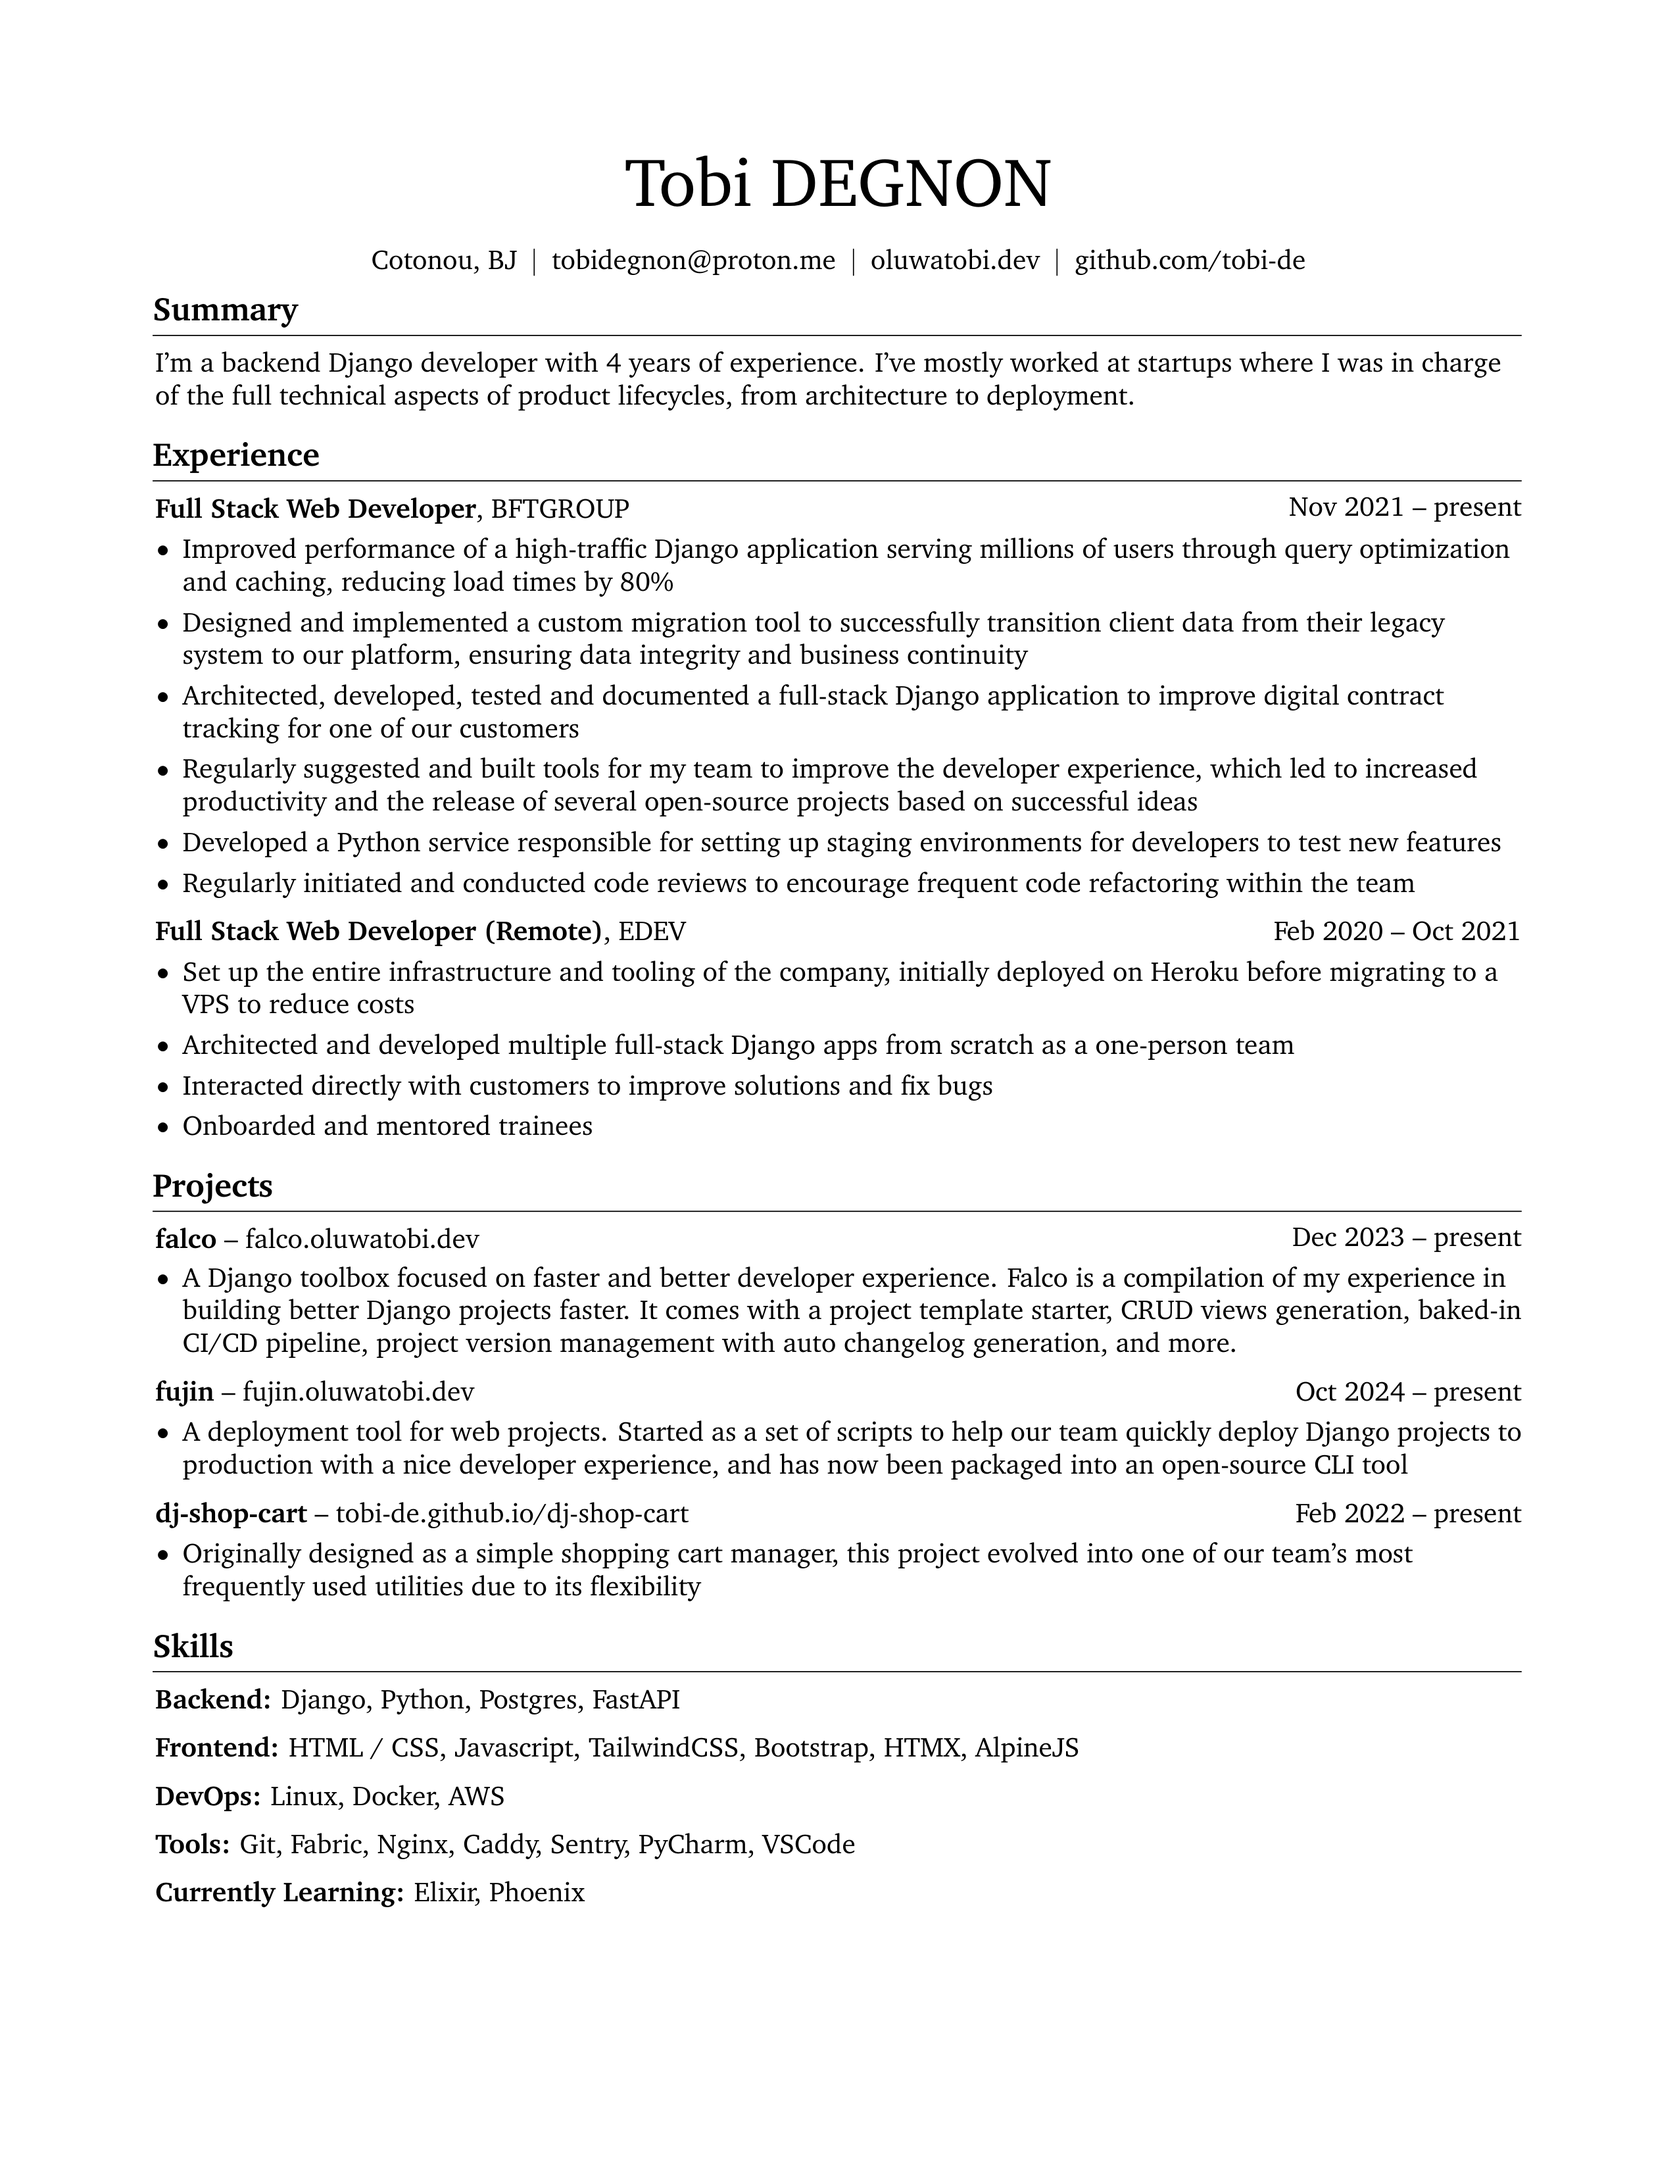
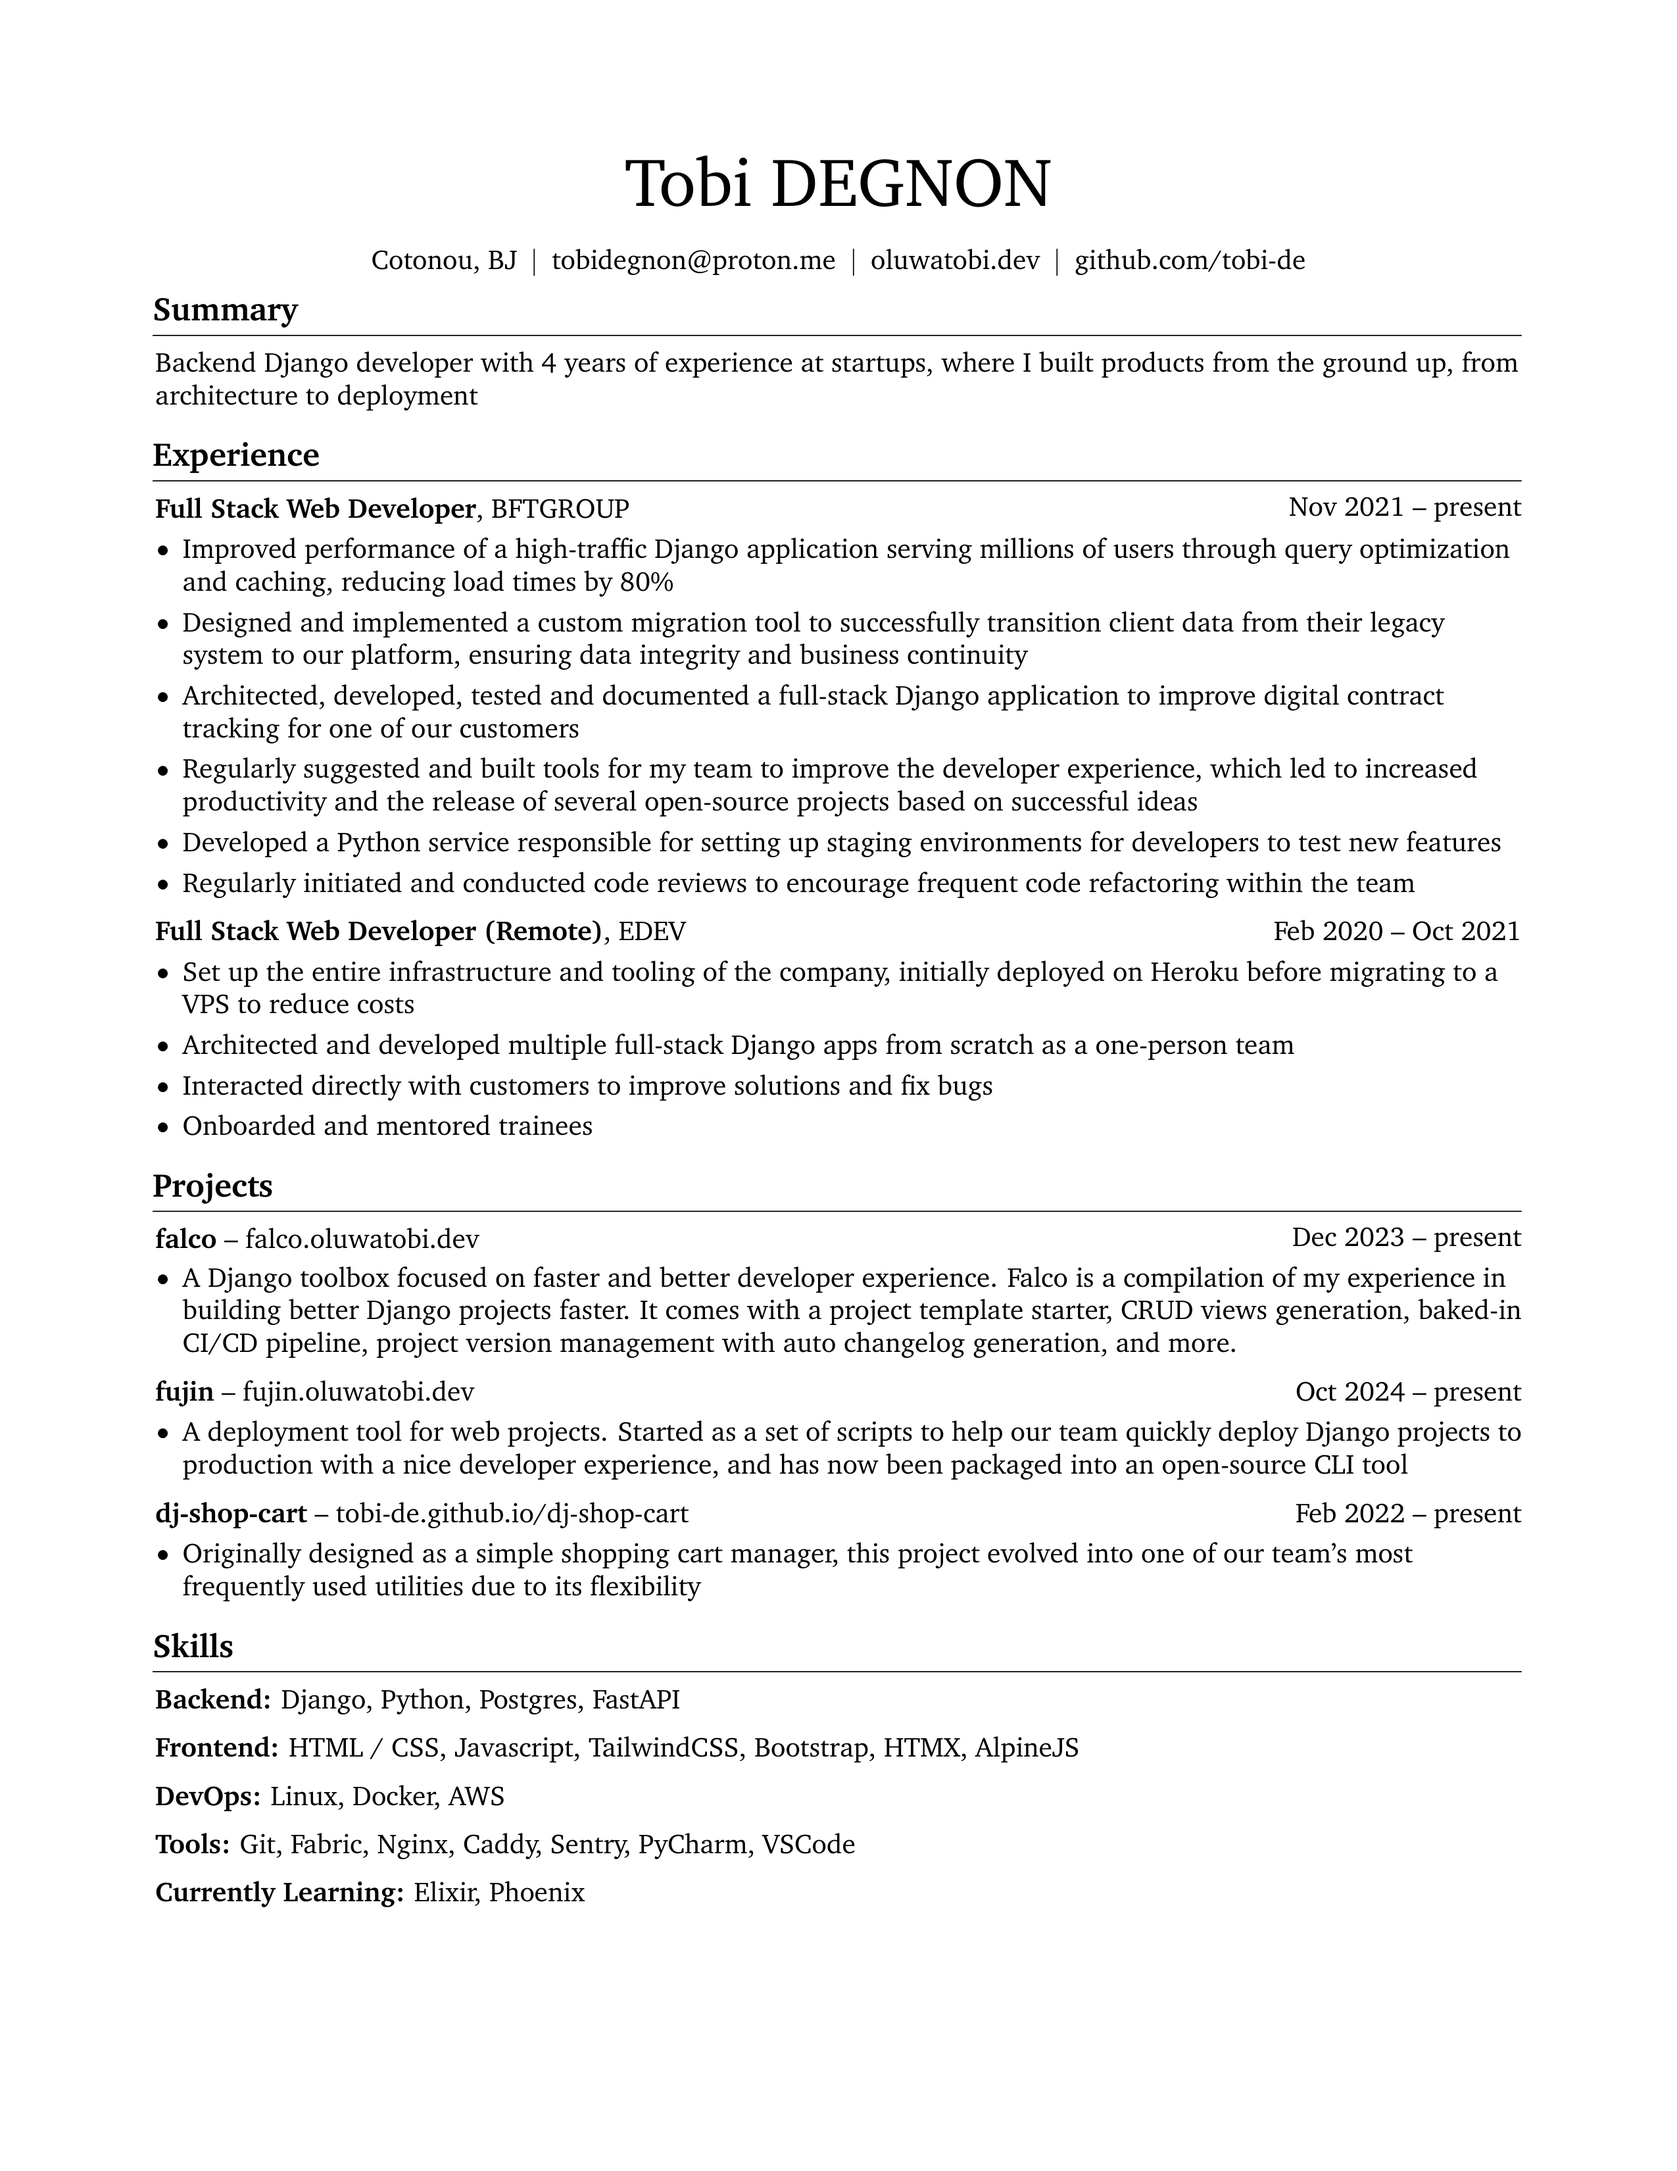
update summary

Changed region(s): [[0.0929, 0.1561, 0.7745, 0.1873], [0.8055, 0.1561, 0.8984, 0.1873]]

diff --git a/rendercv_output/Tobi_DEGNON_CV.html b/rendercv_output/Tobi_DEGNON_CV.html
@@ -39,7 +39,7 @@
         <li>GitHub: <a href="https://github.com/tobi-de">tobi-de</a></li>
         </ul>
         <h1>Summary</h1>
-        <p>I'm a backend Django developer with 4 years of experience. I've mostly worked at startups where I was in charge of the full technical aspects of product lifecycles, from architecture to deployment.</p>
+        <p>Backend Django developer with 4 years of experience at startups, where I built products from the ground up, from architecture to deployment</p>
         <h1>Experience</h1>
         <h2>BFTGROUP, Full Stack Web Developer</h2>
         <ul>
@@ -104,8 +104,7 @@
         </ul>
         <h1>References</h1>
         <ul>
-        <li>Aimé An-Nyong DEGBEY, Head of Development BFT Group: Said something nice</li>
-        <li>LOUMEDJINON Alex Gilles: Said something nice</li>
+        <li>Aimé An-Nyong DEGBEY, Head of Development BFT Group: </li>
         </ul>
     </article>
 </body>

diff --git a/rendercv_output/Tobi_DEGNON_CV.tex b/rendercv_output/Tobi_DEGNON_CV.tex
@@ -189,7 +189,7 @@
 
         
         \begin{onecolentry}
-            I'm a backend Django developer with 4 years of experience. I've mostly worked at startups where I was in charge of the full technical aspects of product lifecycles, from architecture to deployment.
+            Backend Django developer with 4 years of experience at startups, where I built products from the ground up, from architecture to deployment
         \end{onecolentry}
 
 
@@ -379,13 +379,7 @@
 
         
         \begin{onecolentry}
-            \textbf{Aimé An-Nyong DEGBEY, Head of Development BFT Group:} Said something nice
-        \end{onecolentry}
-
-        \vspace{0.2 cm}
-
-        \begin{onecolentry}
-            \textbf{LOUMEDJINON Alex Gilles:} Said something nice
+            \textbf{Aimé An-Nyong DEGBEY, Head of Development BFT Group:} 
         \end{onecolentry}
 
 

diff --git a/rendercv_output/Tobi_DEGNON_CV.md b/rendercv_output/Tobi_DEGNON_CV.md
@@ -8,7 +8,7 @@
 
 # Summary
 
-I'm a backend Django developer with 4 years of experience. I've mostly worked at startups where I was in charge of the full technical aspects of product lifecycles, from architecture to deployment.
+Backend Django developer with 4 years of experience at startups, where I built products from the ground up, from architecture to deployment
 
 # Experience
 
@@ -76,5 +76,4 @@ I'm a backend Django developer with 4 years of experience. I've mostly worked at
 - French: Native Speaker
 # References
 
-- Aimé An-Nyong DEGBEY, Head of Development BFT Group: Said something nice
-- LOUMEDJINON Alex Gilles: Said something nice
+- Aimé An-Nyong DEGBEY, Head of Development BFT Group: 
